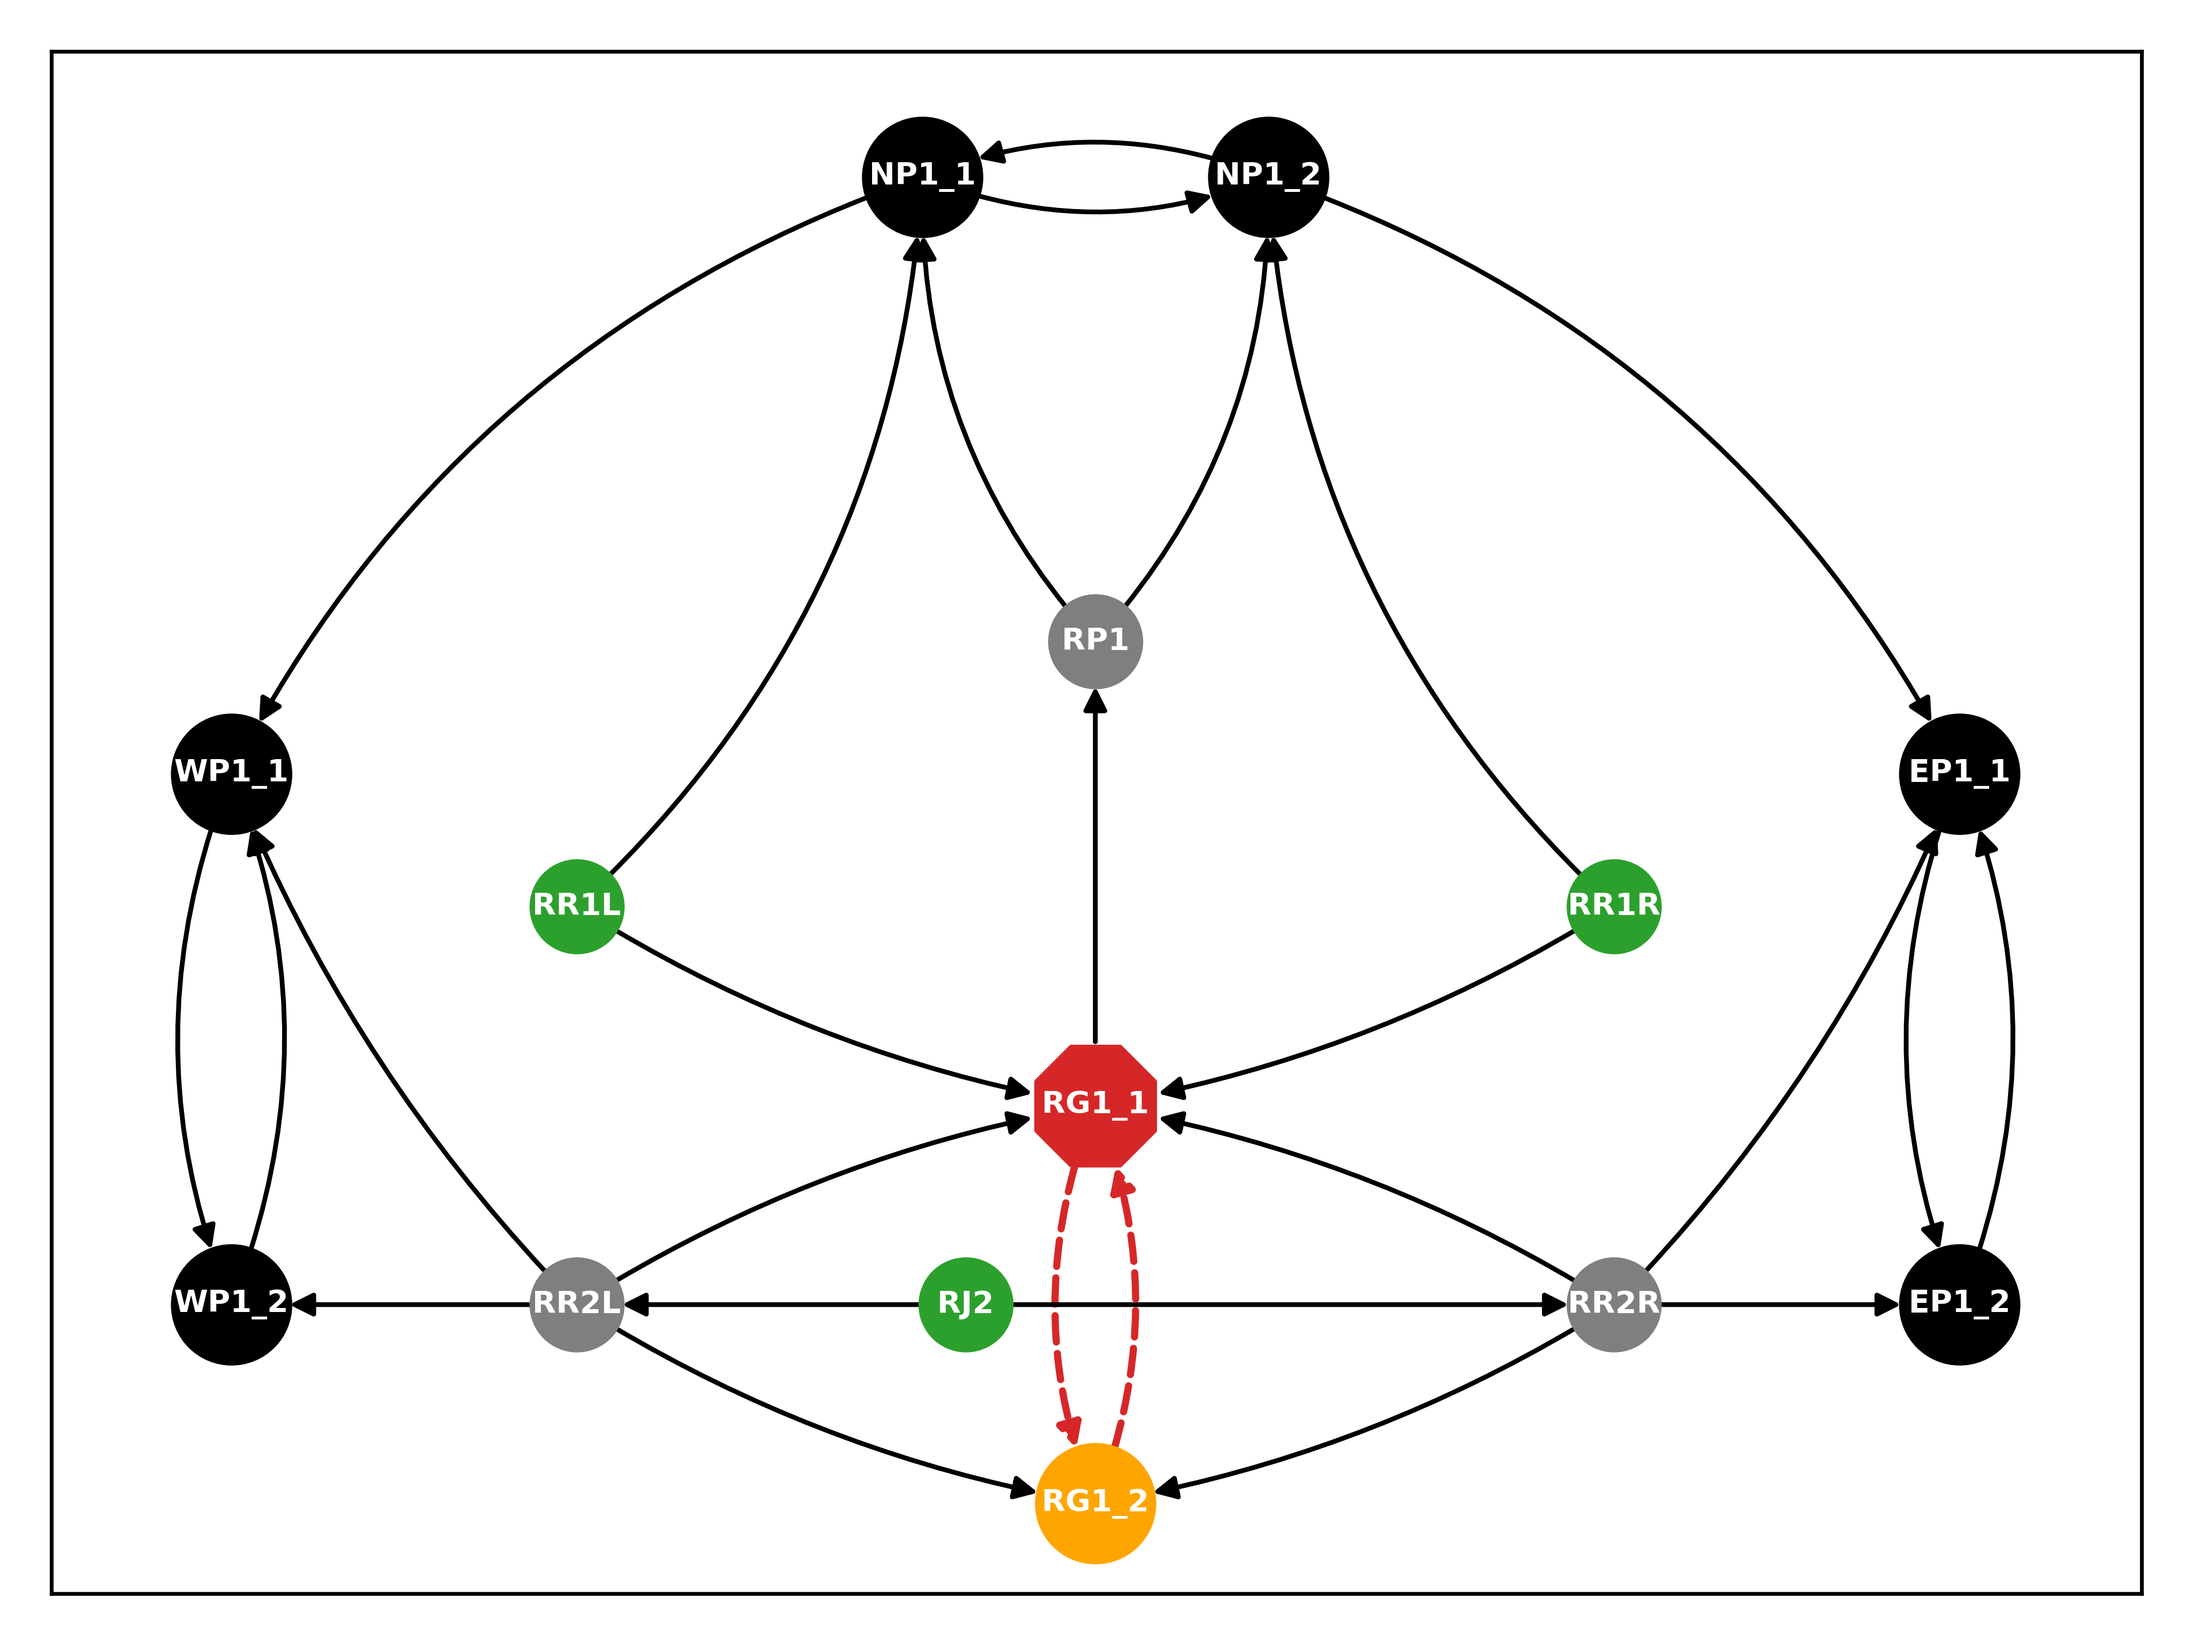
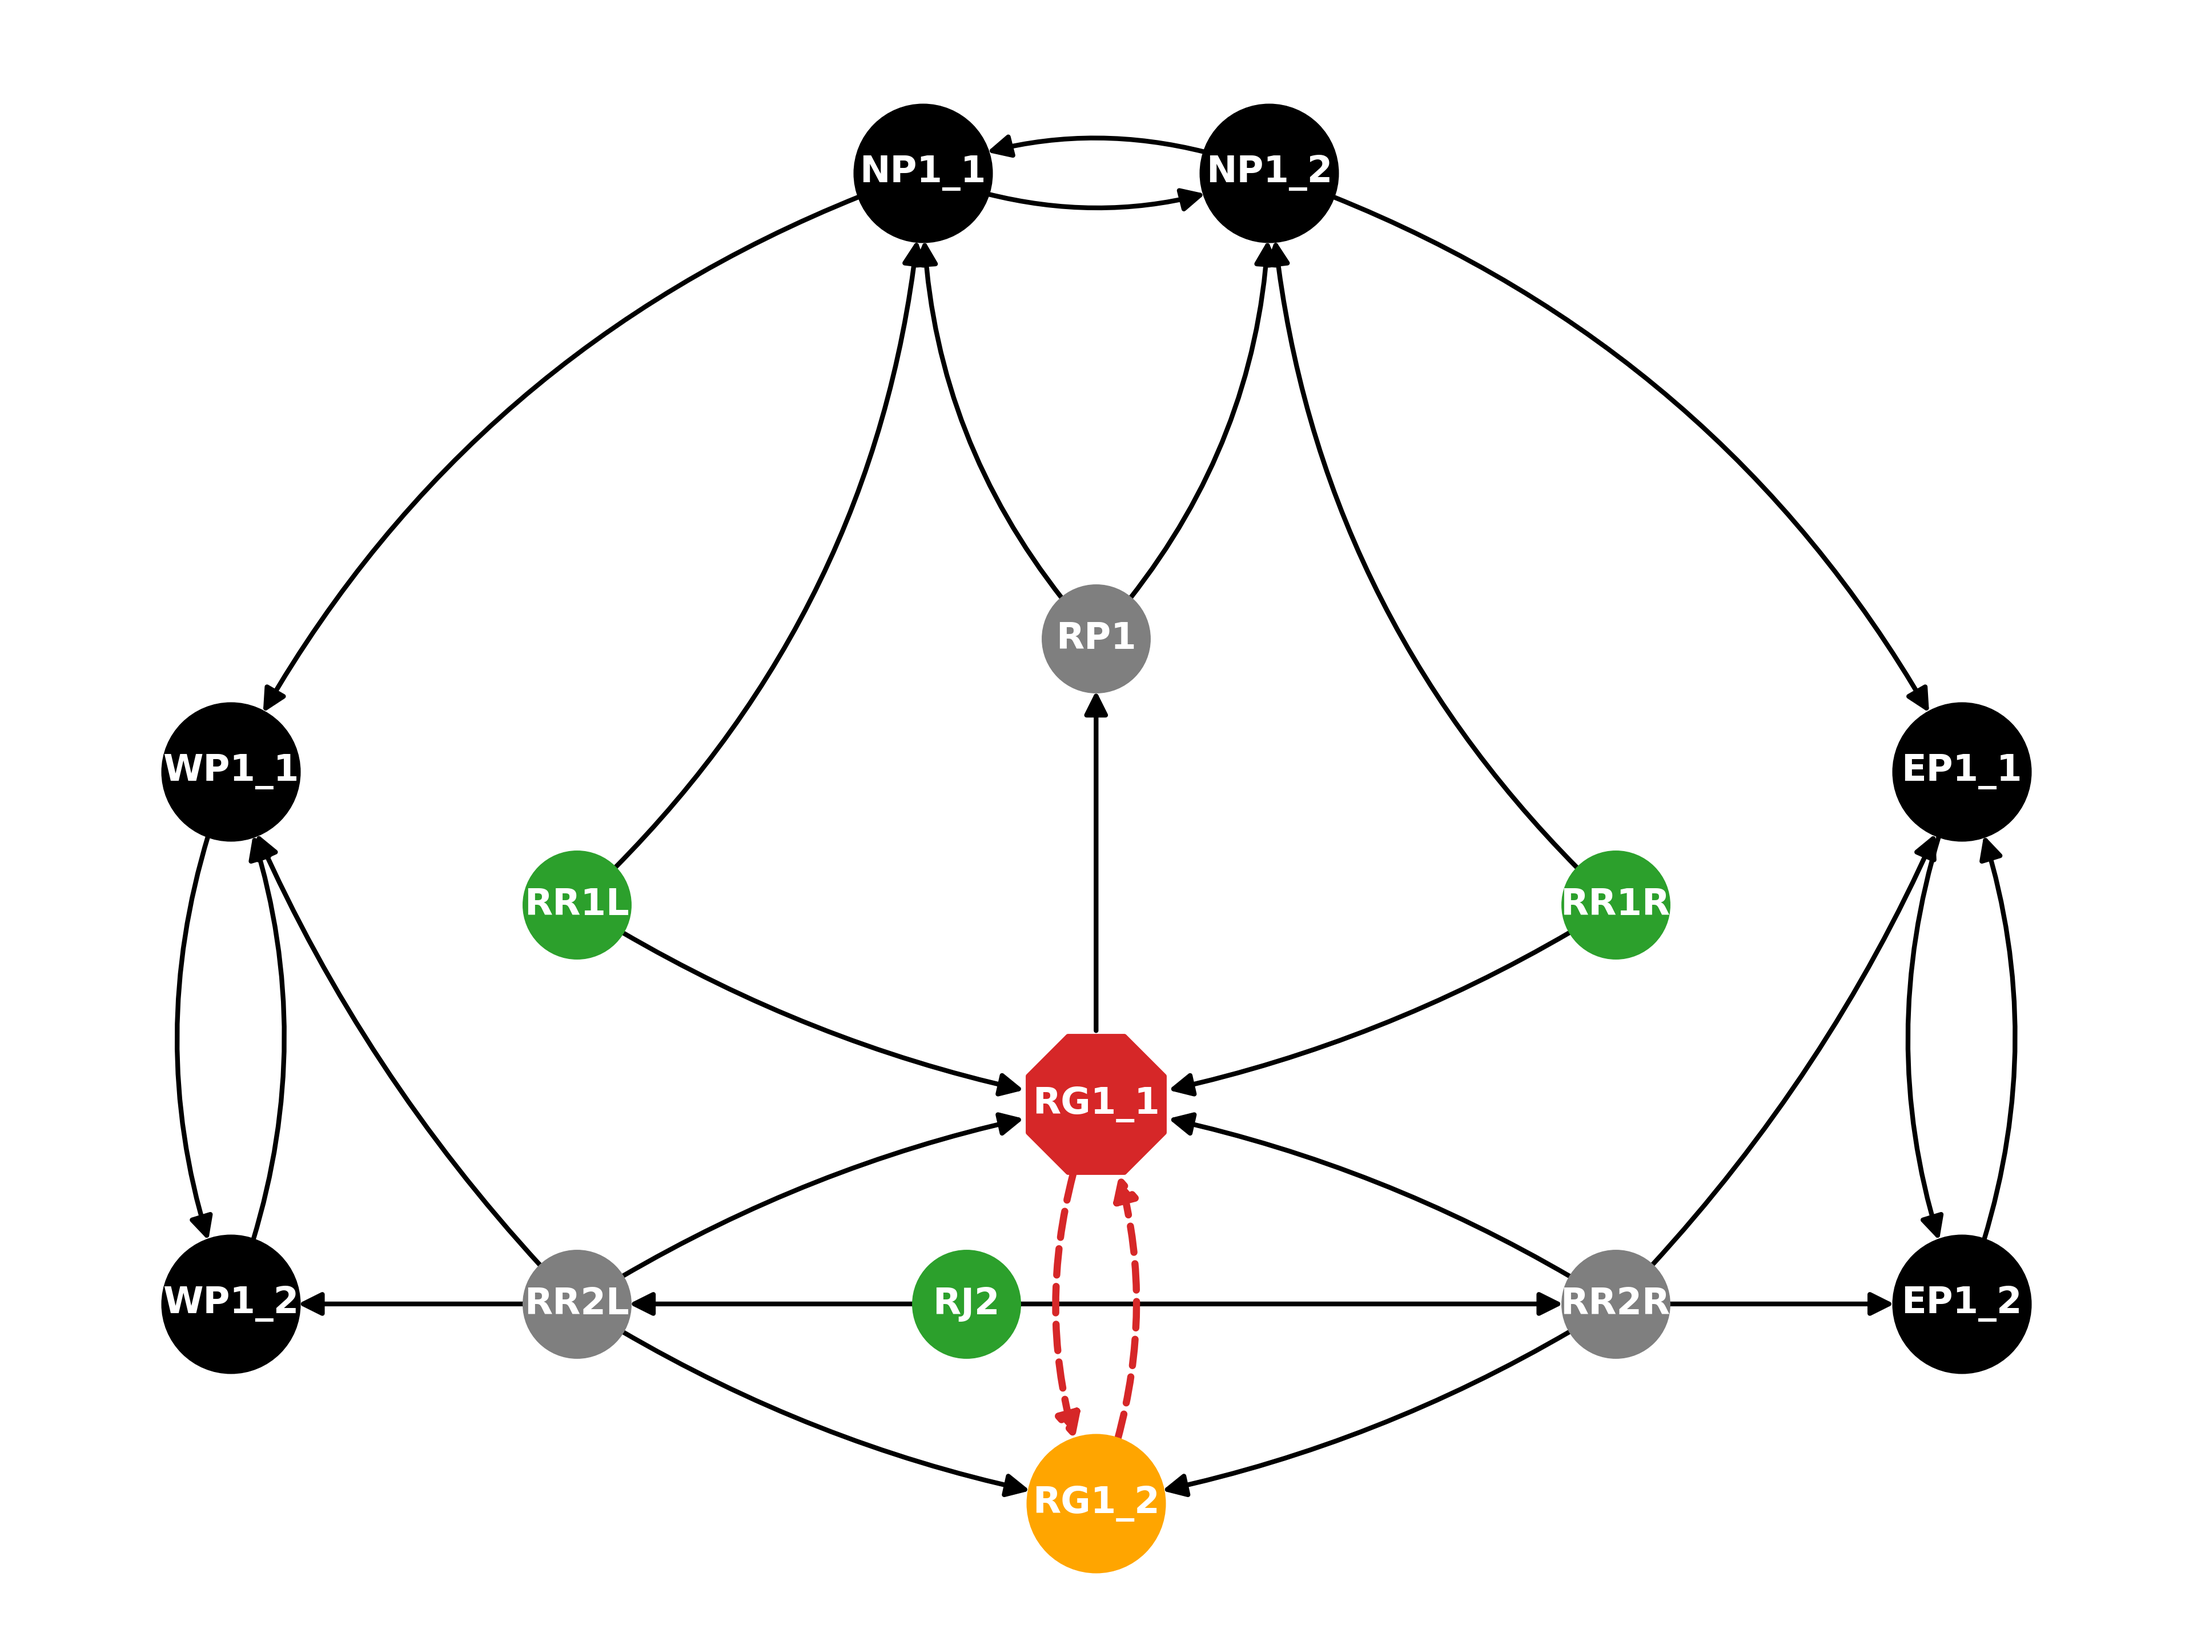
regen some graphs from ACADIA paper

diff --git a/src/algorithms.py b/src/algorithms.py
@@ -112,28 +112,6 @@ def add_node_to_queue(G, n, two_side_fixed, one_side_fixed, remove_node):
     return add
 
 
-# def remove_two_side_out(K, nodes, remove_node):
-
-#     """remove redundant out edges from fixed nodes to other nodes in the graph,
-#     unless they connect directly to the element to be removed
-#     """
-
-#     print("\nREMOVING SINGLE OUT EDGES FROM FIXED NODES {} in SUBGRAPH K".format(nodes))
-
-#     K_copy = K.copy()
-
-#     for n in nodes:
-#         e_K = _get_e_out(K, n)
-
-#         for e in e_K:
-
-#             if not check_if_fixed_exists(K, e[1], e[0]) and remove_node not in e:
-#                 print("single edge {}".format(e))
-#                 K_copy.remove_edge(e[0], e[1])
-
-#     return K_copy
-
-
 def check_cut(G, K):
     """
     See if the subgraph K fully contains the edges attached to a member
@@ -155,9 +133,9 @@ def check_cut(G, K):
         if e_total_K == e_total_G:
             print("-- --fully removed")
 
-            e_count, e_fixed = count_fixed_sides(K, n)
+            num_e_fixed, e_fixed = count_fixed_sides(K, n)
 
-            if e_count:  # if there are any fixed edges
+            if num_e_fixed:  # if there are any fixed edges
 
                 for e in e_fixed:
                     print("-- --fixed connection to cut {}".format(e))
@@ -181,9 +159,10 @@ def check_cut(G, K):
     print("\nnodes that need to be cut: {}".format(nodes_cut))
     print("nodes that are fully removed: {}".format(nodes_fully_removed))
 
-    for n in nodes_fully_removed:
-        K.nodes[n]["color"] = "tab:grey"
-        K.nodes[n]["size"] = 500
+    # SOMETHING RELATED TO JOINED SUBGRAPH THING
+    # for n in nodes_fully_removed:
+    #     K.nodes[n]["color"] = "tab:grey"
+    #     K.nodes[n]["size"] = 500
 
     return nodes_cut, nodes_fully_removed
 
@@ -240,6 +219,7 @@ def single_member_remove(G, remove_node):
     two_side_fixed = []
     one_side_fixed = []
 
+    # 1. see what nodes to add
     while nodes_queue:
         n = nodes_queue.pop(0)
         print("\n\nCHECKING NODE {}".format(n))
@@ -260,10 +240,11 @@ def single_member_remove(G, remove_node):
     print("-- NODES one side fixed now: {}".format(one_side_fixed))
     print("-- NODES two side fixed: {}".format(two_side_fixed))
 
+    # 2. check what needs to be cut
     nodes_cut, nodes_fully_removed = check_cut(G, K)
 
     nodes_check_support = one_side_fixed + two_side_fixed + nodes_cut
-    nodes_check_support = list(set(nodes_check_support))
+    nodes_check_support = list(set(nodes_check_support))  # remove duplicates
 
     nodes_fully_removed.append(remove_node)
     nodes_fully_removed = list(set(nodes_fully_removed))  # remove duplicates
@@ -271,6 +252,7 @@ def single_member_remove(G, remove_node):
     print("-- NODES fully removed: {}".format(nodes_fully_removed))
     print("-- NODES to check support on: {}".format(nodes_check_support))
 
+    # 3. check that properly supported
     K = check_connected(G, K, nodes_fully_removed, nodes_check_support)
 
     return K, nodes_check_support

diff --git a/main.py b/main.py
@@ -47,34 +47,34 @@ if __name__ == "__main__":
 
     # remove_members = G.nodes()
     # remove_members = ["RP2"]
-    m1 = ["SS1"]
+    m1 = ["WP1_3"]
     K1, n1 = build_member_subgraph(
         G=G,
         remove_members=m1,
-        scale=1.2,
-        draw=False,
+        scale=1.6,
+        draw=True,
         show=False,
     )
 
     # calculate_sequence(K1)
 
-    m2 = ["WS9"]
-    K2, n2 = build_member_subgraph(
-        G=G,
-        remove_members=m2,
-        scale=1.2,
-        draw=True,
-        show=False,
-    )
+    # m2 = ["WS9"]
+    # K2, n2 = build_member_subgraph(
+    #     G=G,
+    #     remove_members=m2,
+    #     scale=1.2,
+    #     draw=True,
+    #     show=False,
+    # )
 
-    build_joined_subgraph(
-        G=G,
-        K1=K1,
-        K2=K2,
-        remove_members=m1 + m2,
-        nodes_check_support=n1 + n2,
-        name=m1[0] + "_" + m2[0],
-        scale=1.2,
-        draw=True,
-        show=False,
-    )
+    # build_joined_subgraph(
+    #     G=G,
+    #     K1=K1,
+    #     K2=K2,
+    #     remove_members=m1 + m2,
+    #     nodes_check_support=n1 + n2,
+    #     name=m1[0] + "_" + m2[0],
+    #     scale=1.2,
+    #     draw=True,
+    #     show=False,
+    # )

diff --git a/src/drawing.py b/src/drawing.py
@@ -76,13 +76,14 @@ def draw_graph(G, pos_fixed, filename, scale=1, plt_show=False):
     nx.draw_networkx_labels(
         G=G,
         pos=pos,
-        font_size=6 * (scale * 0.9),
+        font_size=6 * (scale * 0.8),
         font_color="white",
         font_weight="bold",
     )
 
     f = plt.gcf()
     f.tight_layout()
+    plt.axis("off")  # no border around fig
     plt.savefig(filename, dpi=600)
 
     if plt_show:

diff --git a/src/build.py b/src/build.py
@@ -21,9 +21,11 @@ def add_edges(G, edge_data):
 
 def get_node_pos(G, scale=1):
 
+    scale = [scale, scale * 2]
+
     pos_fixed = {}
     for k, v in nx.get_node_attributes(G, "pos").items():
-        pos_fixed[k] = tuple(t * scale for t in eval(v))
+        pos_fixed[k] = tuple(dim * s for dim, s in zip(eval(v), scale))
 
     return pos_fixed
 
